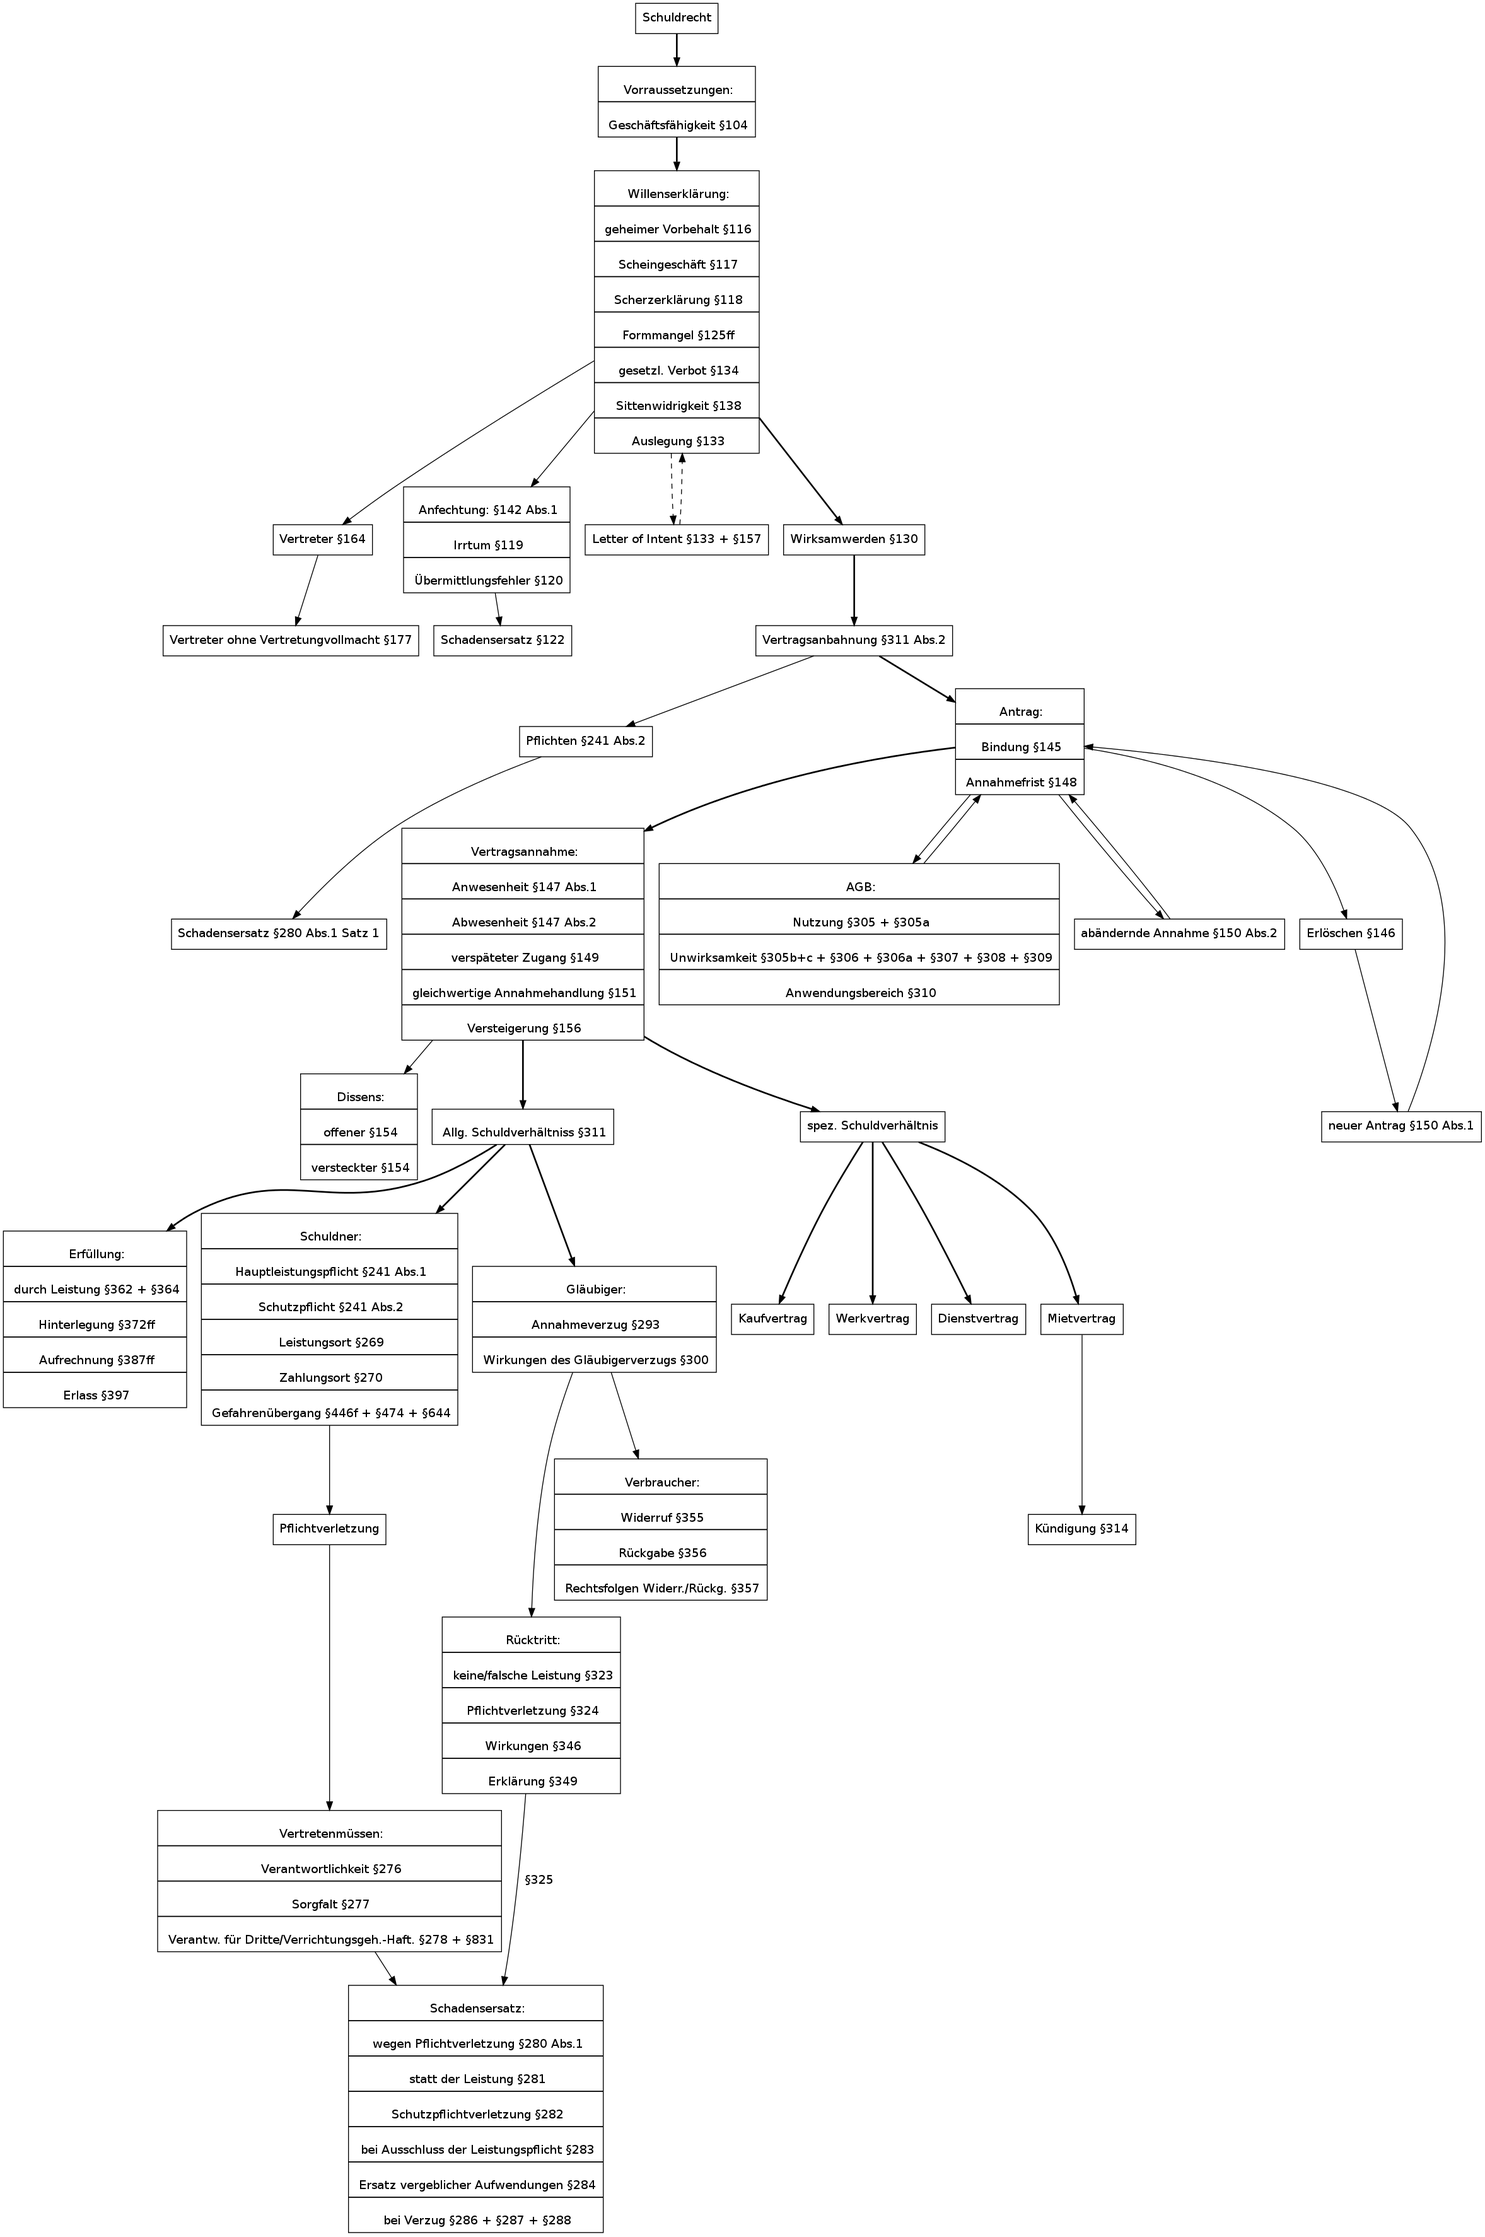
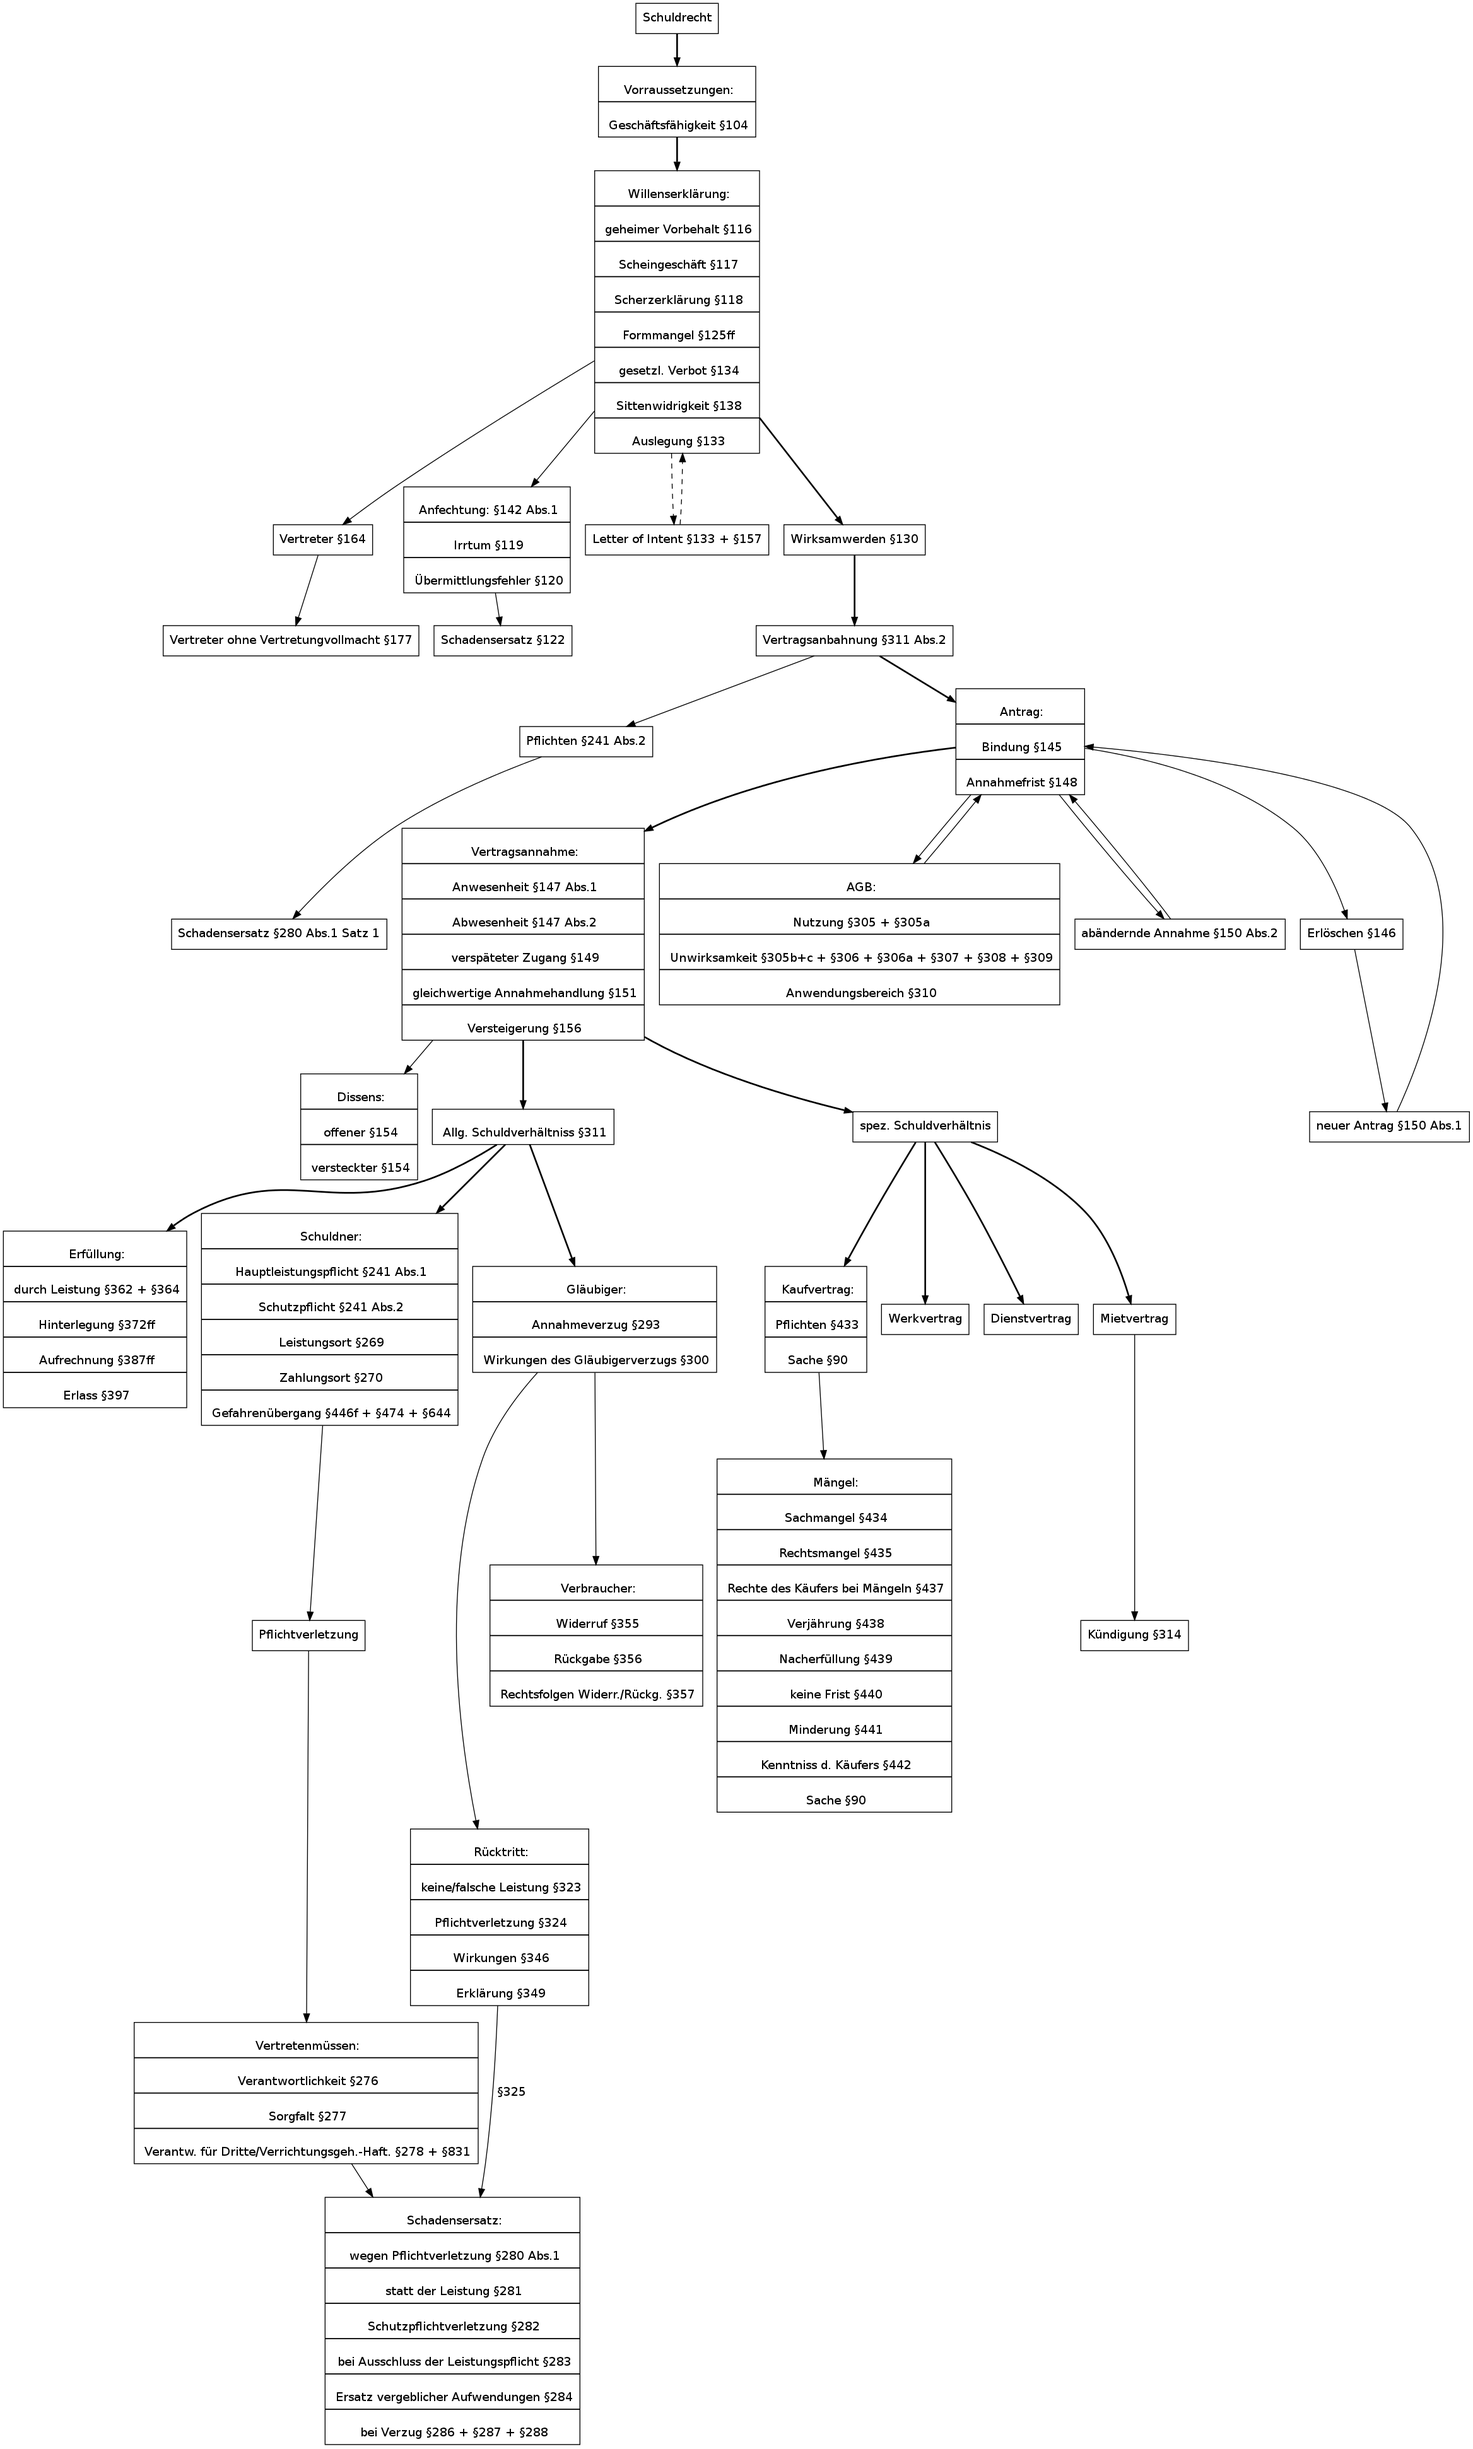
kv maengel

diff --git a/graph.rb b/graph.rb
@@ -110,7 +110,23 @@ glaeubiger_verbraucher = g.add_nodes("Verbraucher", "shape" => "record", "label"
 
 spez_schuldverh = g.add_nodes("spez. Schuldverhältnis")
 
-kv = g.add_nodes( "Kaufvertrag" )
+kv = g.add_nodes( "Kaufvertrag", "shape" => "record", "label" => "{
+  Kaufvertrag: |
+  Pflichten §433 |
+  Sache §90}")
+
+kv_maengel = g.add_nodes( "Mängel", "shape" => "record", "label" => "{
+  Mängel: |
+  Sachmangel §434 |
+  Rechtsmangel §435 |
+  Rechte des Käufers bei Mängeln §437 |
+  Verjährung §438 |
+  Nacherfüllung §439 |
+  keine Frist §440 |
+  Minderung §441 |
+  Kenntniss d. Käufers §442 |
+  Sache §90}")
+
 wv = g.add_nodes( "Werkvertrag" )
 dv = g.add_nodes( "Dienstvertrag" )
 
@@ -156,6 +172,8 @@ g.add_edges( schuldner_pflichtverl, schuldner_verantw )
 g.add_edges( schuldner_verantw, schuldner_schadensers )
 
 g.add_edges( spez_schuldverh, kv , "style" => "bold")
+g.add_edges( kv, kv_maengel)
+
 g.add_edges( spez_schuldverh, wv , "style" => "bold")
 g.add_edges( spez_schuldverh, dv , "style" => "bold")
 
